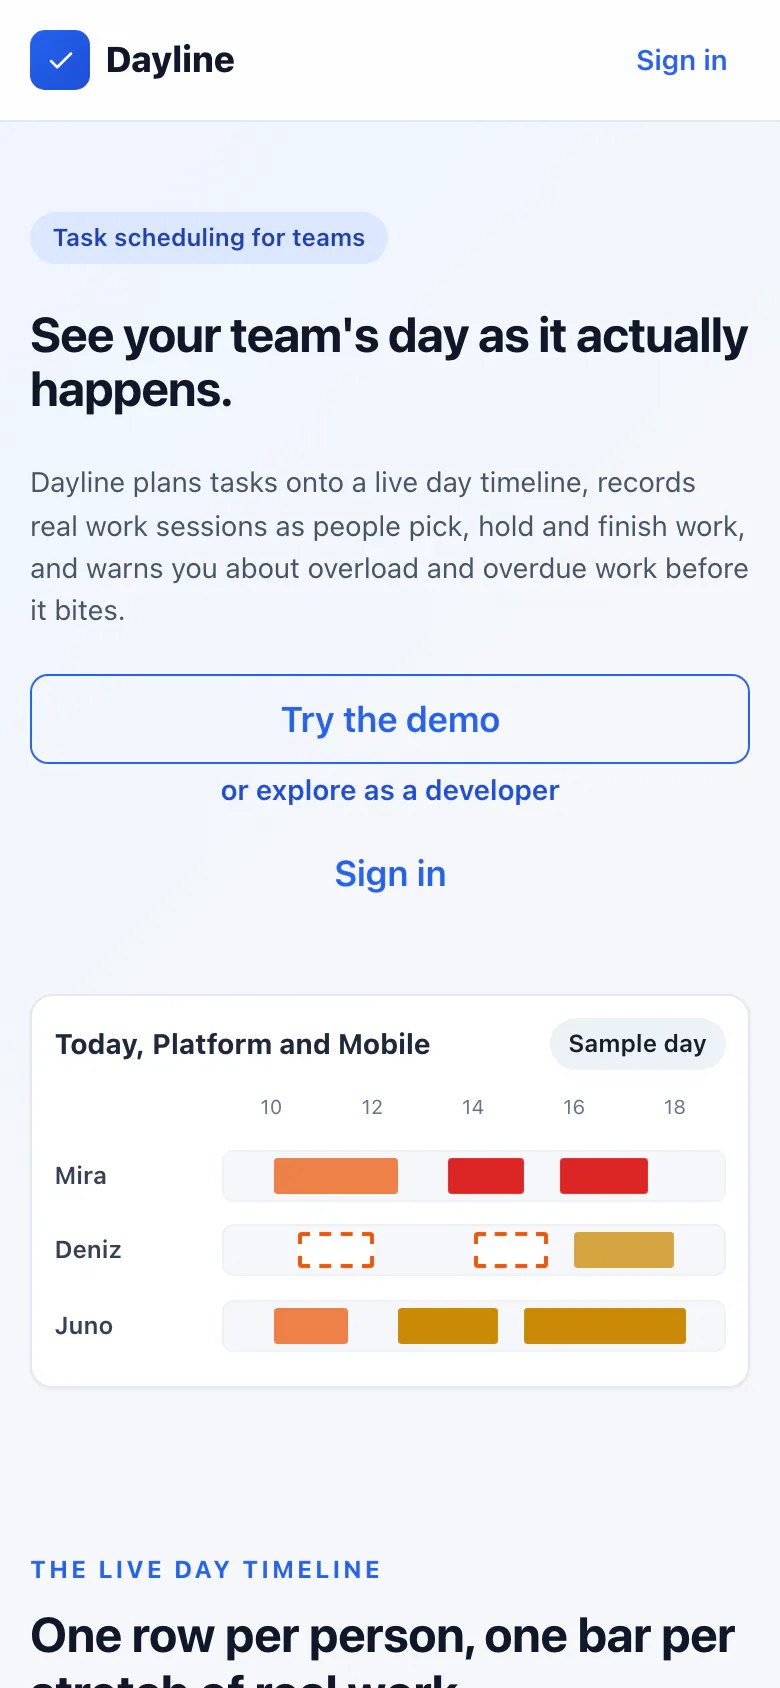
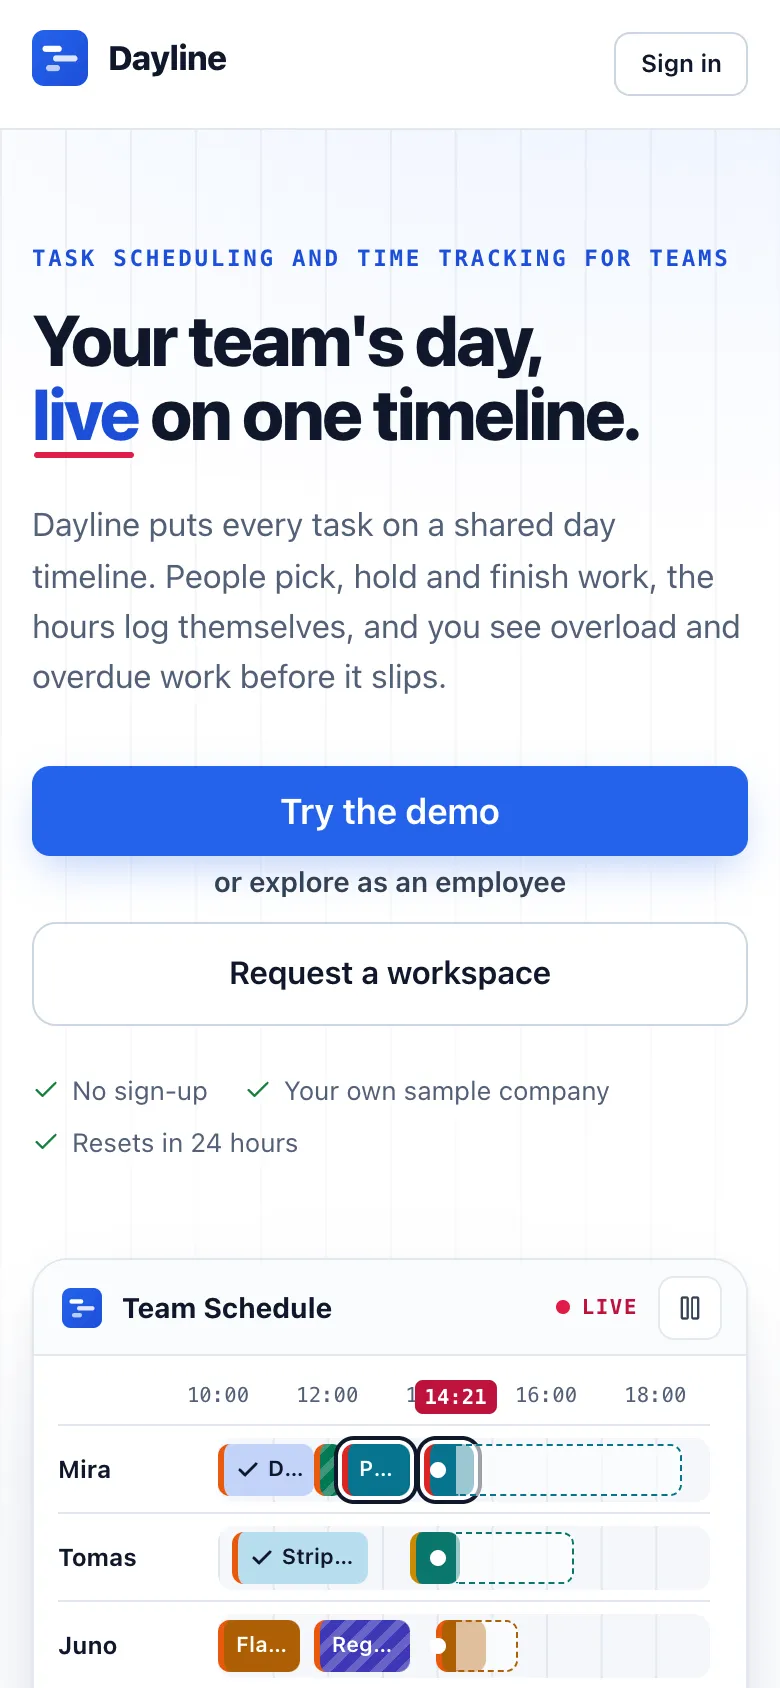
Dayline: redesigned landing, persona login and workspace-request screens
- Work-list polaroid uses the new landing screenshot; the case-study
  gallery leads with it, then the persona picker and Request a workspace
  (plus the phone persona picker).
- Case study covers the four demo personas, the seeded in-progress day,
  the rules-based insight fallback and Request a workspace via the shared
  contact API; tests now 260 backend and 190 frontend. The old landing's
  Lighthouse score is dropped since that page was replaced.

diff --git a/src/data/caseStudies/dayline.ts b/src/data/caseStudies/dayline.ts
@@ -2,7 +2,8 @@ import type { CaseStudy } from "./types";
 
 // Sources: taskboard README, docs/plan.md, docs/bugs.md, docs/DEPLOY_RENDER.md, backend
 // tests (scheduler.py advisory locks, test_single_process_mode.py, test_demo.py), plus the
-// revive pass numbers. Screenshots captured from the live site on 2026-11-01.
+// revive pass numbers, and the Nov 2026 commits (personas, seeded day, rules-based
+// insights, Request a workspace). Screenshots captured from the live site on 2026-11-01.
 // The demo org ("Quillbrook Labs") and everyone in it is fictional.
 
 export const dayline: CaseStudy = {
@@ -30,6 +31,7 @@ export const dayline: CaseStudy = {
     "Dayline started as an internal task tool. It was rebuilt as a company-neutral product with a fictional demo organisation and nothing carried over from the original data.",
     "The timeline is built from real work sessions. Four actions (pick, hold, resume, done) open and close sessions, so time tracking takes care of itself. Picking a task auto-holds whatever else that person had in progress.",
     "Capacity per person and an overdue sweep flag trouble early, and org-aware visibility means people see their part of the org chart and nothing else.",
+    "The demo opens as one of four personas (manager, team lead, two employees) on a seeded day that is already under way: running timers, finished work, something on hold, something overdue. Teams that want the real thing request a workspace instead of signing themselves up.",
   ],
   architecture: {
     summary:
@@ -38,13 +40,15 @@ export const dayline: CaseStudy = {
       { name: "Client", detail: "React 19, Chakra UI, RTK Query over a custom axios base query; one WebSocket keeps every open view fresh." },
       { name: "API", detail: "FastAPI with role and org-scope checks on every query, bcrypt passwords, rate-limited login." },
       { name: "In-process scheduler", detail: "Overdue sweep every 60 s and demo purge every hour, each also run once on startup so a sleeping service catches up." },
-      { name: "Demo workspaces", detail: "Each visitor gets an isolated copy of the demo org, scoped by workspace and expired after 24 hours." },
+      { name: "Demo workspaces", detail: "Each visitor gets an isolated copy of the demo org as one of four personas, seeded relative to the current time so today already has work in it, and expired after 24 hours." },
+      { name: "Insights", detail: "Gemini summarises risk and rebalancing; when no key is set or the call fails, a rules-based summary built from the same data takes its place and is labelled as such." },
+      { name: "Request a workspace", detail: "A public form that posts to the shared contact API (the one behind this portfolio) tagged as a Dayline workspace request. Accounts come from an admin invite, never self-signup." },
       { name: "Postgres", detail: "Tasks, work sessions, login sessions and advisory locks. Alembic migrations run on every start." },
-      { name: "Tests", detail: "247 backend tests (permissions, org scope, sessions, demo isolation, single-process mode) and 158 frontend tests, plus a 17-step browser click-through." },
+      { name: "Tests", detail: "260 backend tests (permissions, org scope, sessions, demo isolation, insights, single-process mode) and 190 frontend tests, plus a scripted browser click-through." },
     ],
     nodes: [
       { id: "ui", label: "React client", sub: "timeline, insights", col: 0, row: 0, tone: "sky" },
-      { id: "demo", label: "Try the demo", sub: "new workspace", col: 1, row: 1, tone: "pink" },
+      { id: "demo", label: "Try the demo", sub: "4 personas", col: 1, row: 1, tone: "pink" },
       { id: "api", label: "FastAPI", sub: "org + workspace scope", col: 1, row: 0, tone: "butter" },
       { id: "ws", label: "WebSocket hub", sub: "tasks_changed", col: 0, row: 1, tone: "paper" },
       { id: "db", label: "Postgres", sub: "data, sessions, locks", col: 2, row: 0, tone: "mint" },
@@ -76,6 +80,16 @@ export const dayline: CaseStudy = {
       tradeoff: "Every visit writes real rows. It needs a TTL, an hourly purge, a per-IP hourly limit and a cap on live workspaces.",
     },
     {
+      title: "Insights that never show an error",
+      choice: "If Gemini is missing or fails, the API builds a deterministic summary and two to four recommendations from status counts, overdue and at-risk work, rebalance pairs and what is due soon, and marks it as rules-based.",
+      tradeoff: "The fallback is plainer than the model's answer, and the two paths have to stay in step when the data changes.",
+    },
+    {
+      title: "Request, don't sign up",
+      choice: "First login needs an invite link. Everyone else gets a Request a workspace form that reuses the portfolio's contact API, tagged with its source, so requests land in one inbox.",
+      tradeoff: "A person has to approve each team, and two products now share one endpoint, so it has to tell their messages apart.",
+    },
+    {
       title: "Ping, then refetch",
       choice: "After any task mutation the server broadcasts a small tasks_changed ping over WebSocket and clients invalidate their task cache.",
       tradeoff: "Simple and always consistent, but every open client refetches on every change, and the fan-out is in memory for a single instance.",
@@ -92,14 +106,16 @@ export const dayline: CaseStudy = {
     },
   ],
   results: [
-    { value: "247", label: "backend tests passing", source: "pytest, Oct 2026" },
-    { value: "158", label: "frontend tests passing", source: "Frontend test suite, Oct 2026" },
+    { value: "260", label: "backend tests passing", source: "pytest, Nov 2026" },
+    { value: "190", label: "frontend tests passing", source: "Frontend test suite, Nov 2026" },
+    { value: "4", label: "demo personas, each in its own private workspace", source: "POST /demo, Nov 2026" },
     { value: "17 steps", label: "browser click-through of the demo", source: "Scripted headless browser run, Oct 2026" },
-    { value: "94 / 100 / 100 / 100", label: "Lighthouse on the landing page (performance, accessibility, best practices, SEO)", source: "Lighthouse, mobile preset, Oct 2026" },
   ],
   resultsNote: "No usage numbers are shown because none have been measured yet.",
   screenshots: [
-    { src: "/projects/dayline/landing.webp", alt: "Dayline landing page with a sample day timeline", caption: "Landing page: a sample day, one row per person, one bar per stretch of real work." },
+    { src: "/projects/dayline/landing.webp", alt: "Dayline landing page with a live sample timeline", caption: "The landing page runs the app's own timeline on a sample clock." },
+    { src: "/projects/dayline/login-personas.webp", alt: "Login page offering the demo as Manager, Team lead, Employee 1 or Employee 2", caption: "Try the demo as one of four personas. No account needed." },
+    { src: "/projects/dayline/request-workspace.webp", alt: "Request a workspace form", caption: "Teams request a real workspace. The request lands in my inbox through the shared contact API." },
     { src: "/projects/dayline/app-timeline.webp", alt: "Team day timeline with work-session bars and a task popover", caption: "The live team timeline. Each bar is a real work session; the popover shows planned versus actual and the Hold and Done actions." },
     { src: "/projects/dayline/app-week.webp", alt: "Week view of the team schedule", caption: "The same sessions as a week, one row per person." },
     { src: "/projects/dayline/app-task-detail.webp", alt: "Task detail with subtasks and activity", caption: "Task detail: subtasks, attachments, comments and activity in one place." },
@@ -109,15 +125,15 @@ export const dayline: CaseStudy = {
     { src: "/projects/dayline/app-mobile-my-work.webp", alt: "Dayline home on a phone", caption: "My Work on a 390 px phone.", mobile: true },
     { src: "/projects/dayline/app-mobile-task.webp", alt: "Task detail on a phone", caption: "Task detail on a phone.", mobile: true },
     { src: "/projects/dayline/mobile-landing.webp", alt: "Dayline landing on a phone", caption: "The landing page on a phone.", mobile: true },
+    { src: "/projects/dayline/mobile-login.webp", alt: "Persona picker on a phone", caption: "The persona picker on a phone.", mobile: true },
   ],
   next: [
-    "Close self-registration behind invites or admin approval.",
-    "Bring the AI insight panel back: the configured Gemini model was retired, so the demo shows it as unavailable.",
+    "Turn workspace requests into invites from the admin screen instead of by hand.",
     "Move the WebSocket fan-out to a shared channel before running more than one instance.",
     "Finish the sweep race fix that is still marked partial in the bug log.",
   ],
   tryIt: [
-    "Press Try the demo on the landing page for your own workspace in a fictional company, or pick explore as a developer to see an individual contributor's view.",
+    "Press Try the demo and pick a persona (manager, team lead or one of two employees) for your own workspace in a fictional company.",
     "Demo workspaces reset after 24 hours. Emails and notifications are off.",
     "The API runs on a free host. If it was asleep, the first request can take up to a minute.",
   ],

diff --git a/src/data/work.ts b/src/data/work.ts
@@ -46,7 +46,7 @@ const CURATED: Curated[] = [
     type: "Live day-timeline for team task scheduling",
     outcome: "Live, everyone's timeline updates over WebSockets",
     color: "sky",
-    img: "/projects/dayline/app-timeline.webp",
+    img: "/projects/dayline/landing.webp",
     live: "https://dayline-alpha-ten.vercel.app",
     repos: [{ label: "Repo", url: gh("dayline") }],
     project: {
